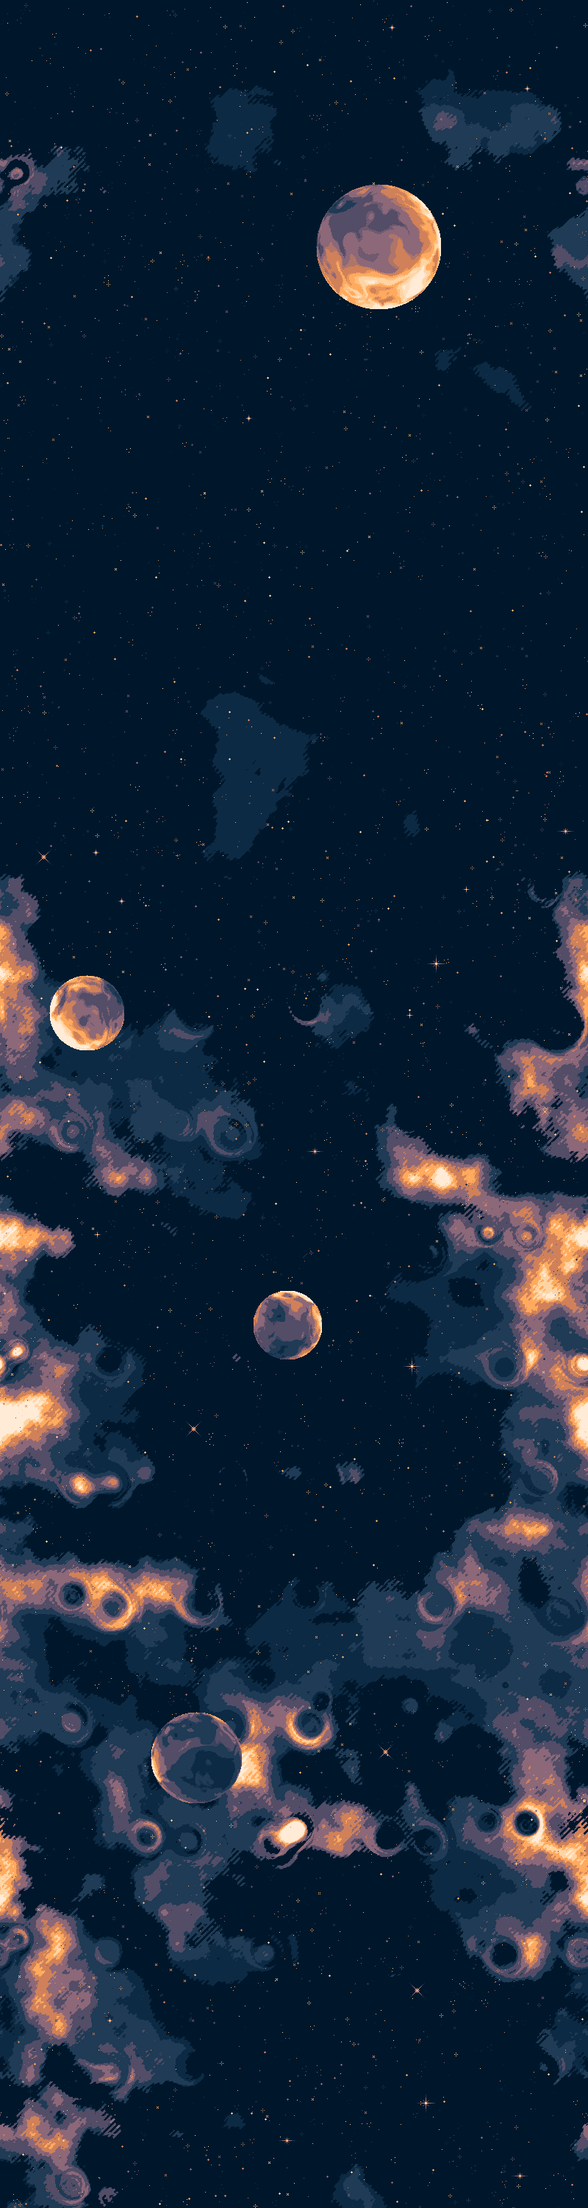
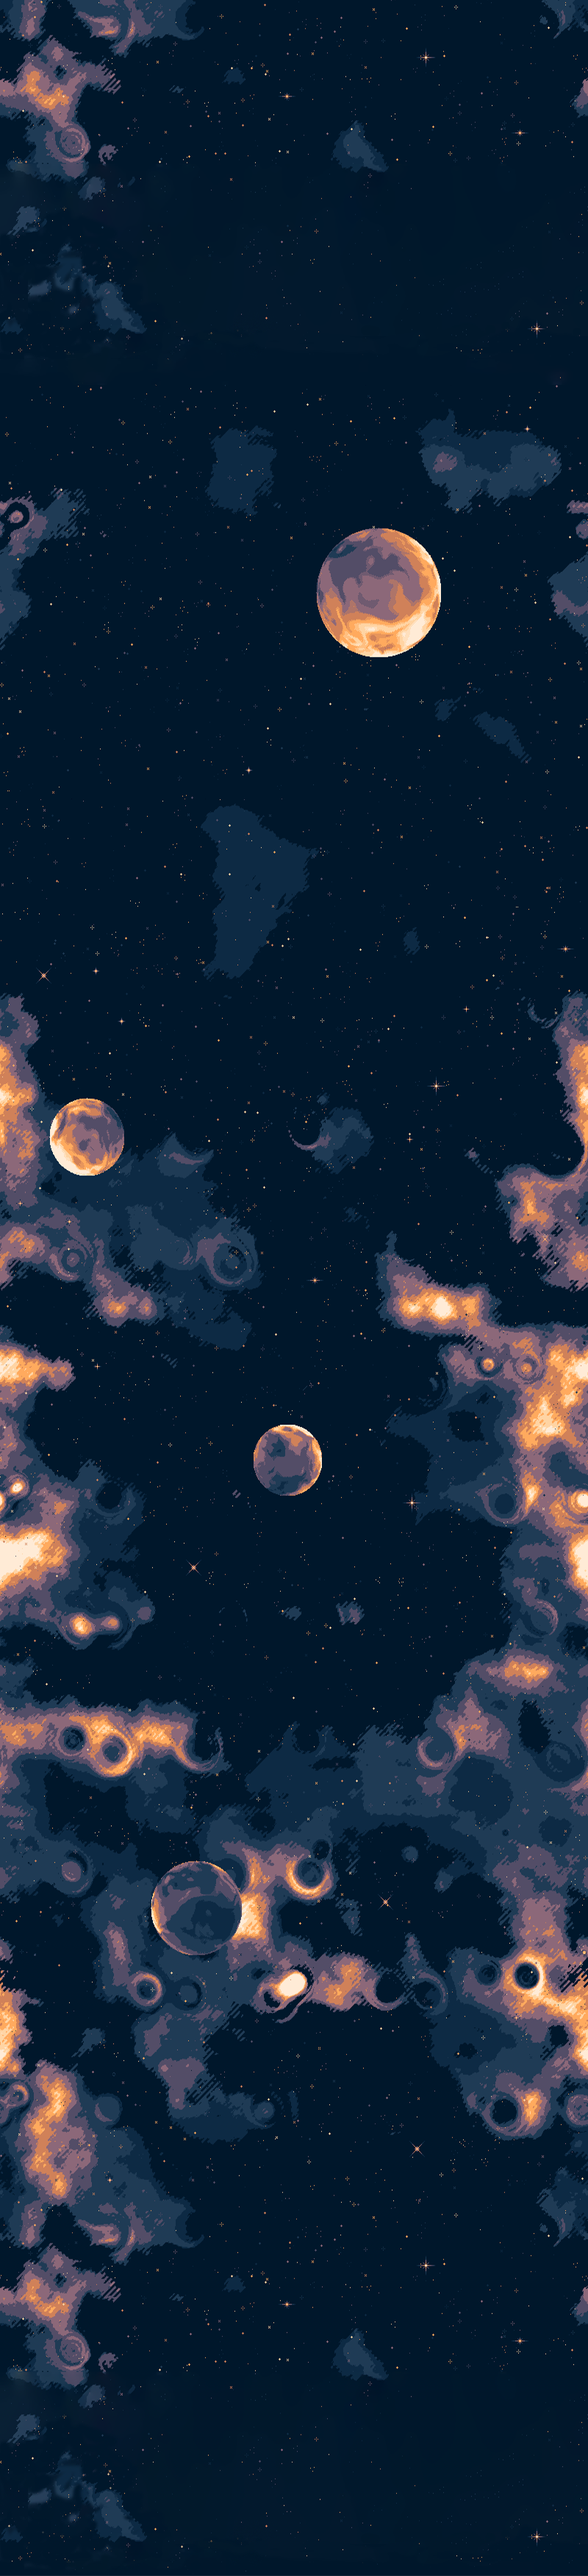
modification into classes

diff --git a/assets/js/script.js b/assets/js/script.js
@@ -1,76 +1,106 @@
-var targets = []; //hold all the targets
 let canvas = document.getElementById("mon_canvas");
 let ctx = canvas.getContext("2d");
-let backgroundPos = -2500;
+let gameOver = false;
+let backgroundPos = -3000;
 let mouse = {
     x: undefined, 
     y:undefined
 };
 
-canvas.onmousemove = function(event) { 
-    mouse.x = event.x - this.offsetLeft; 
-    mouse.y = event.y - this.offsetTop;
-    console.log(mouse.x);
-}
-function createAsteroid(){
 
-    let asteroid1 = document.getElementById('asteroid1');
-    let asteroid2 = document.getElementById('asteroid2');
-    let asteroids = [ asteroid1, asteroid2 ];
-    let randomAsteroid = asteroids[Math.floor(Math.random() * asteroids.length)];
-    let posX = Math.floor(Math.random() * 770) + 1;
-    target = [ posX, -15 ];
-    targets.push(target)
-
-    ctx.drawImage(randomAsteroid, posX, 1, randomAsteroid.width * 1.6, randomAsteroid.height * 1.6);
-}
-
-function generateAsteroid(nbr){
-
-    for ( let i = 0; i < nbr; i++)
-    {
-        createAsteroid();
+class sprites {
+    constructor(image, posX, posY) {
+        this.image = document.getElementById(image);
+        this.posX = posX;
+        this.posY = posY;
+    }
+    draw(){
+        ctx.drawImage(this.image, this.posX, this.posY);
     }
 }
 
-function createShip(){
-        
-    let spaceship = document.getElementById('spaceship');
-    let flame1 = document.getElementById('flame1');
-    ctx.drawImage(flame1, 300, 420, spaceship.width / 4, spaceship.height / 4);
-    ctx.drawImage(spaceship, 300, 380, spaceship.width / 4, spaceship.height / 4);
+canvas.onmousemove = function(event) { 
+    mouse.x = event.x - this.offsetLeft; 
+    mouse.y = event.y - this.offsetTop;
 }
 
-function createBullet(){
+let gameBackground = new sprites('background', 0, -3000)
+function scrollBackground(gameBackground){
+    let ctx = canvas.getContext("2d");
+    if (gameBackground.posY > 0){
+        gameBackground.posY = -3000;
+    }
+    gameBackground.posY += 2;
+    ctx.drawImage(this.image, this.posX, this.posY);
+    console.log(gameBackground, gameBackground.posX, gameBackground.posY); 
+    console.log(gameBackground);
 
-    let bullet = document.getElementById('laserSmall');
-    ctx.drawImage(bullet, 20, 50, bullet.width / 1.8, bullet.height / 1.8);
+    requestAnimationFrame(scrollBackground);
 }
 
-function createBackground(){
 
-    let background = document.getElementById('background');
-    ctx.drawImage(background, 0, backgroundPos);
-}
 
-function scrollBackground(){
-    background.requestAnimationFrame(scrollBackground); 
-    ctx.clearRect(0,0,canvas.width,canvas.height); 
-    backgroundPos+=2;
-}
 
 window.onload = () =>{
-    
-    let bullet = document.getElementById('laserSmall');
-    ctx.drawImage(bullet, 20, 50, bullet.width / 1.8, bullet.height / 1.8);
     ctx.imageSmoothingEnabled = true;
     ctx.imageSmoothingQuality = 'high';
-    createBackground();
-    generateAsteroid(4);
-    createShip();
-    createBullet();
-}
 
-ctx.stroke();
-console.log(targets);
+    // let gameBackground = new sprites('background', 0, -3000);
+    ctx.drawImage(gameBackground.image, gameBackground.posX, gameBackground.posY);
+
+    setInterval(scrollBackground(gameBackground), 3000);
+
+    // setInterval(scrollBackground(gameBackground), 3000);
+                            
+
+
+                        // var mousedownID = -1;  //Global ID of mouse down interval
+                        // function mousedown(event) {
+                        // if(mousedownID==-1)  //Prevent multimple loops!
+                        //     mousedownID = setInterval(whilemousedown, 1 /*execute every 100ms*/);
+                        
+                        
+                        // }
+                        // function mouseup(event) {
+                        // if(mousedownID!=-1) {  //Only stop if exists
+                        //     clearInterval(mousedownID);
+                        //     mousedownID=-1;
+                        // }
+                        
+                        // }
+                        // function whilemousedown() {
+                        //     if (gameBackground.posY > 0){
+                        //         gameBackground.posY = -3000;
+                        //     }
+                        //     gameBackground.posY += 10;
+                        //     gameBackground.draw();
+                        //     console.log(gameBackground, gameBackground.posX, gameBackground.posY); 
+                        // }
+                        // //Assign events
+                        // document.addEventListener("mousedown", mousedown);
+                        // document.addEventListener("mouseup", mouseup);
+                        // //Also clear the interval when user leaves the window with mouse
+                        // document.addEventListener("mouseout", mouseup);
+
+
+
+
+
+
+
+    console.log(gameBackground);
+
+    let vaisseau = new sprites('spaceship', 300, 380);
+    ctx.drawImage(vaisseau.image, vaisseau.posX, vaisseau.posY, vaisseau.image.width / 4, vaisseau.image.height / 4);
+
+
+    let flame = new sprites('flame1', vaisseau.posX, vaisseau.posY+35);
+    ctx.drawImage(flame.image, flame.posX, flame.posY, vaisseau.image.width / 4, vaisseau.image.height / 4);
+    
+
+    let bullet1 = new sprites('laserSmall', vaisseau.posX+30, vaisseau.posY-25);
+    ctx.drawImage(bullet1.image, bullet1.posX, bullet1.posY, bullet1.image.width / 1.8, bullet1.image.height / 1.8);
+
+    return gameBackground, vaisseau, flame, bullet1;
+}
 
